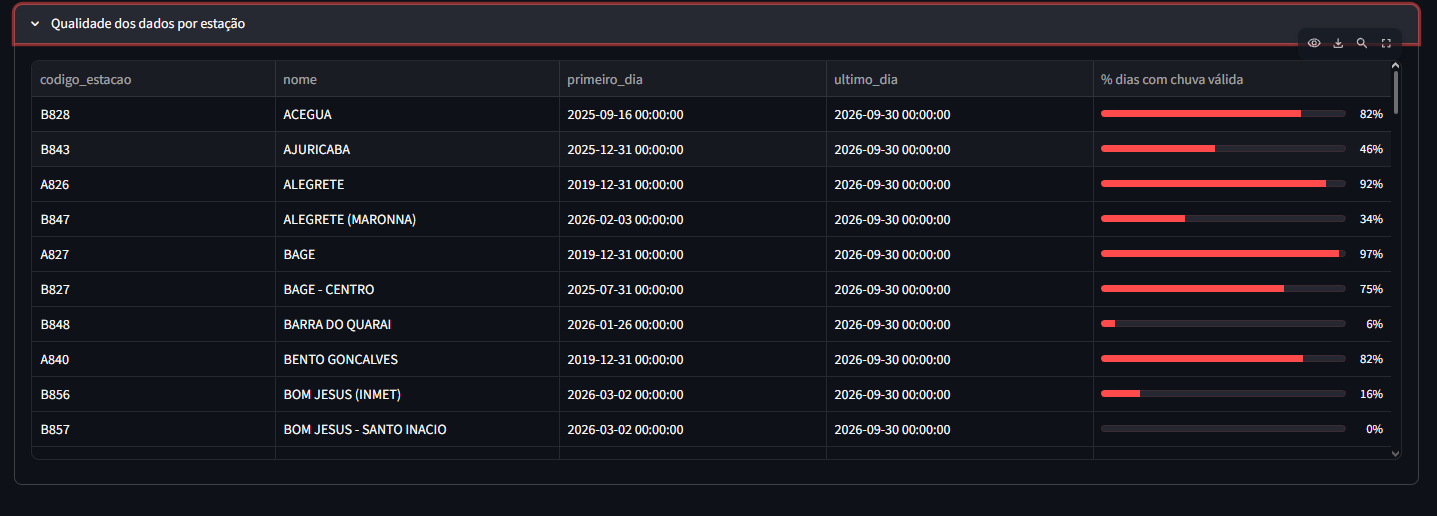
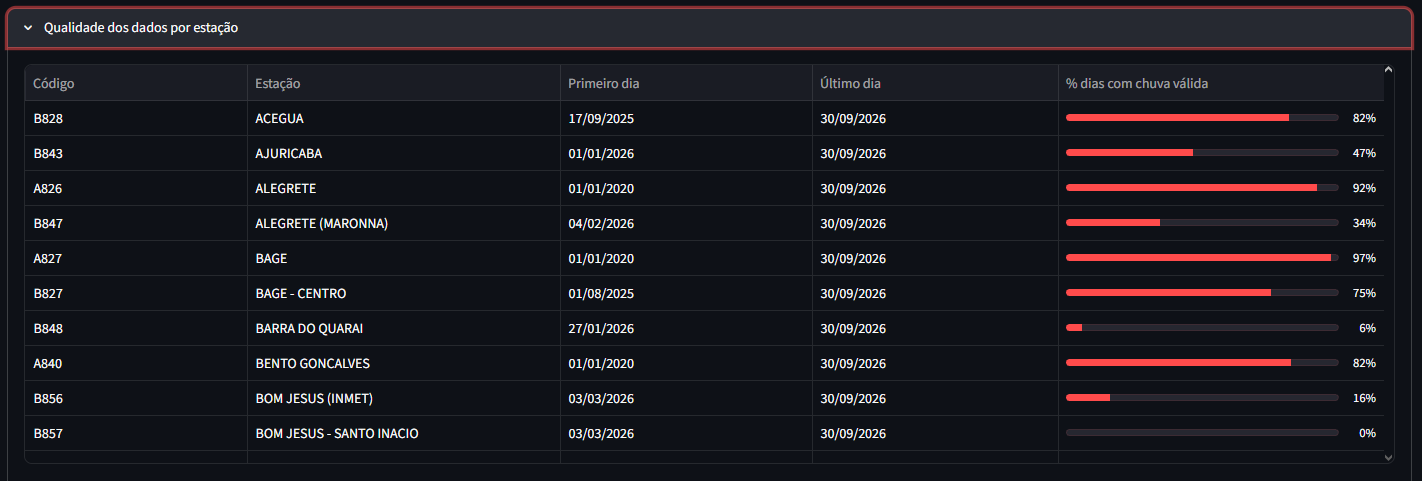
Corrige avisos do ruff

diff --git a/tests/test_carga.py b/tests/test_carga.py
@@ -4,8 +4,8 @@ import pytest
 
 duckdb = pytest.importorskip("duckdb")
 
-from inmet_pipeline.carga import carregar_arquivo, conectar  # noqa: E402
-from inmet_pipeline.parser import ler_csv_inmet  # noqa: E402
+from inmet_pipeline.carga import carregar_arquivo, conectar
+from inmet_pipeline.parser import ler_csv_inmet
 
 FIXTURES = Path(__file__).parent / "fixtures"
 PORTO_ALEGRE = FIXTURES / "INMET_S_RS_A801_PORTO ALEGRE_01-01-2024_A_31-12-2024.CSV"

diff --git a/src/inmet_pipeline/config.py b/src/inmet_pipeline/config.py
@@ -17,7 +17,7 @@ class Config:
     uf: str
 
     @classmethod
-    def from_env(cls) -> "Config":
+    def from_env(cls) -> Config:
         return cls(
             url_base=os.getenv(
                 "INMET_URL_BASE",
